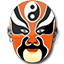
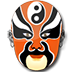
裁剪完成一个学期的图标
重新对首页进行配色。

diff --git a/app/src/main/java/com/zaoqibu/zaoqibukindergartenmusic/util/TermFactory.java b/app/src/main/java/com/zaoqibu/zaoqibukindergartenmusic/util/TermFactory.java
@@ -18,7 +18,7 @@ public class TermFactory {
     }
 
     public Term createTermWithNursery1() {
-        Term term = new Term("小班·上", R.drawable.term_item_nursery34_selector, R.drawable.nursery34_1);
+        Term term = new Term("小班·上", R.drawable.term_item_nursery34_1_selector, R.drawable.nursery34_1);
         term.setPlaylist(createPlaylist(R.array.Nursery34_1, "Nursery34_1"));
 
         return term;
@@ -39,35 +39,35 @@ public class TermFactory {
     }
 
     public Term createTermWithNursery2() {
-        Term term = new Term("小班·下", R.drawable.term_item_nursery34_selector, R.drawable.nursery34_2);
+        Term term = new Term("小班·下", R.drawable.term_item_nursery34_2_selector, R.drawable.nursery34_2);
         term.setPlaylist(createPlaylist(R.array.Nursery34_2, "Nursery34_2"));
 
         return term;
     }
 
     public Term createTermWithLowerKindergarten1() {
-        Term term = new Term("中班·上", R.drawable.term_item_lowerkindergarten45_selector, R.drawable.lowerkindergarten45_1);
+        Term term = new Term("中班·上", R.drawable.term_item_lowerkindergarten45_1_selector, R.drawable.lowerkindergarten45_1);
         term.setPlaylist(createPlaylist(R.array.LowerKindergarten45_1, "LowerKindergarten45_1"));
 
         return term;
     }
 
     public Term createTermWithLowerKindergarten2() {
-        Term term = new Term("中班·下", R.drawable.term_item_lowerkindergarten45_selector, R.drawable.lowerkindergarten45_2);
+        Term term = new Term("中班·下", R.drawable.term_item_lowerkindergarten45_2_selector, R.drawable.lowerkindergarten45_2);
         term.setPlaylist(createPlaylist(R.array.LowerKindergarten45_2, "LowerKindergarten45_2"));
 
         return term;
     }
 
     public Term createTermWithUpperKindergarten1() {
-        Term term = new Term("大班·上", R.drawable.term_item_upperkindergarten56_selector, R.drawable.upperkindergarten56_1);
+        Term term = new Term("大班·上", R.drawable.term_item_upperkindergarten56_1_selector, R.drawable.upperkindergarten56_1);
         term.setPlaylist(createPlaylist(R.array.UpperKindergarten56_1, "UpperKindergarten56_1"));
 
         return term;
     }
 
     public Term createTermWithUpperKindergarten2() {
-        Term term = new Term("大班·下", R.drawable.term_item_upperkindergarten56_selector, R.drawable.upperkindergarten56_2);
+        Term term = new Term("大班·下", R.drawable.term_item_upperkindergarten56_2_selector, R.drawable.upperkindergarten56_2);
         term.setPlaylist(createPlaylist(R.array.UpperKindergarten56_2, "UpperKindergarten56_2"));
 
         return term;
